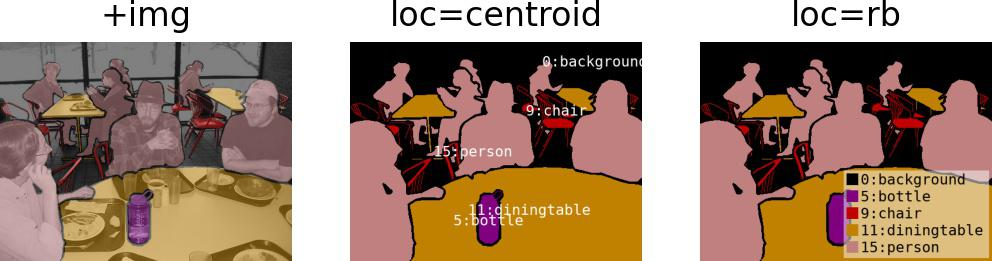
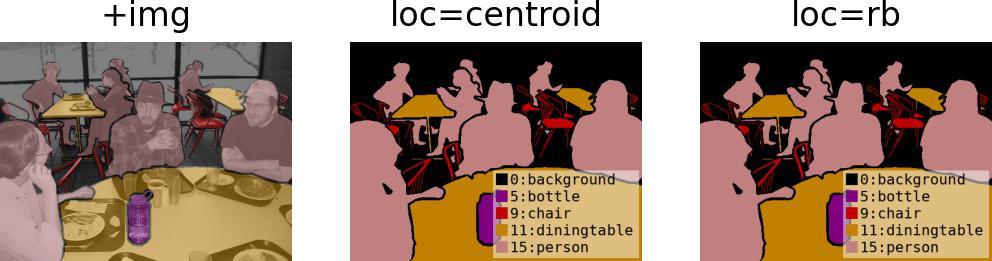
Update README.md & examples/.readme

diff --git a/README.md b/README.md
@@ -57,28 +57,31 @@ import imgviz
 # sample data of rgb, depth, class label and instance masks
 data = imgviz.data.arc2017()
 
+rgb = data["rgb"]
+gray = imgviz.rgb2gray(rgb)
+
 # colorize depth image with JET colormap
 depth = data["depth"]
 depthviz = imgviz.depth2rgb(depth, min_value=0.3, max_value=1)
 
 # colorize label image
 class_label = data["class_label"]
-labelviz = imgviz.label2rgb(class_label, label_names=data["class_names"])
+labelviz = imgviz.label2rgb(class_label, image=gray, label_names=data["class_names"], font_size=20)
 
 # instance bboxes
-rgb = data["rgb"]
 bboxes = data["bboxes"].astype(int)
 labels = data["labels"]
 captions = [data["class_names"][l] for l in labels]
-bboxviz = imgviz.instances2rgb(image=rgb, bboxes=bboxes, labels=labels, captions=captions)
+bboxviz = imgviz.instances2rgb(rgb, bboxes=bboxes, labels=labels, captions=captions)
 
 # instance masks
 masks = data["masks"] == 1
-maskviz = imgviz.instances2rgb(image=rgb, masks=masks, labels=labels, captions=captions)
+maskviz = imgviz.instances2rgb(gray, masks=masks, labels=labels, captions=captions)
 
 # tile instance masks
 insviz = [(rgb * m[:, :, None])[b[0] : b[2], b[1] : b[3]] for b, m in zip(bboxes, masks)]
 insviz = imgviz.tile(imgs=insviz, border=(255, 255, 255))
+insviz = imgviz.resize(insviz, height=rgb.shape[0])
 
 # tile visualization
 tiled = imgviz.tile(
